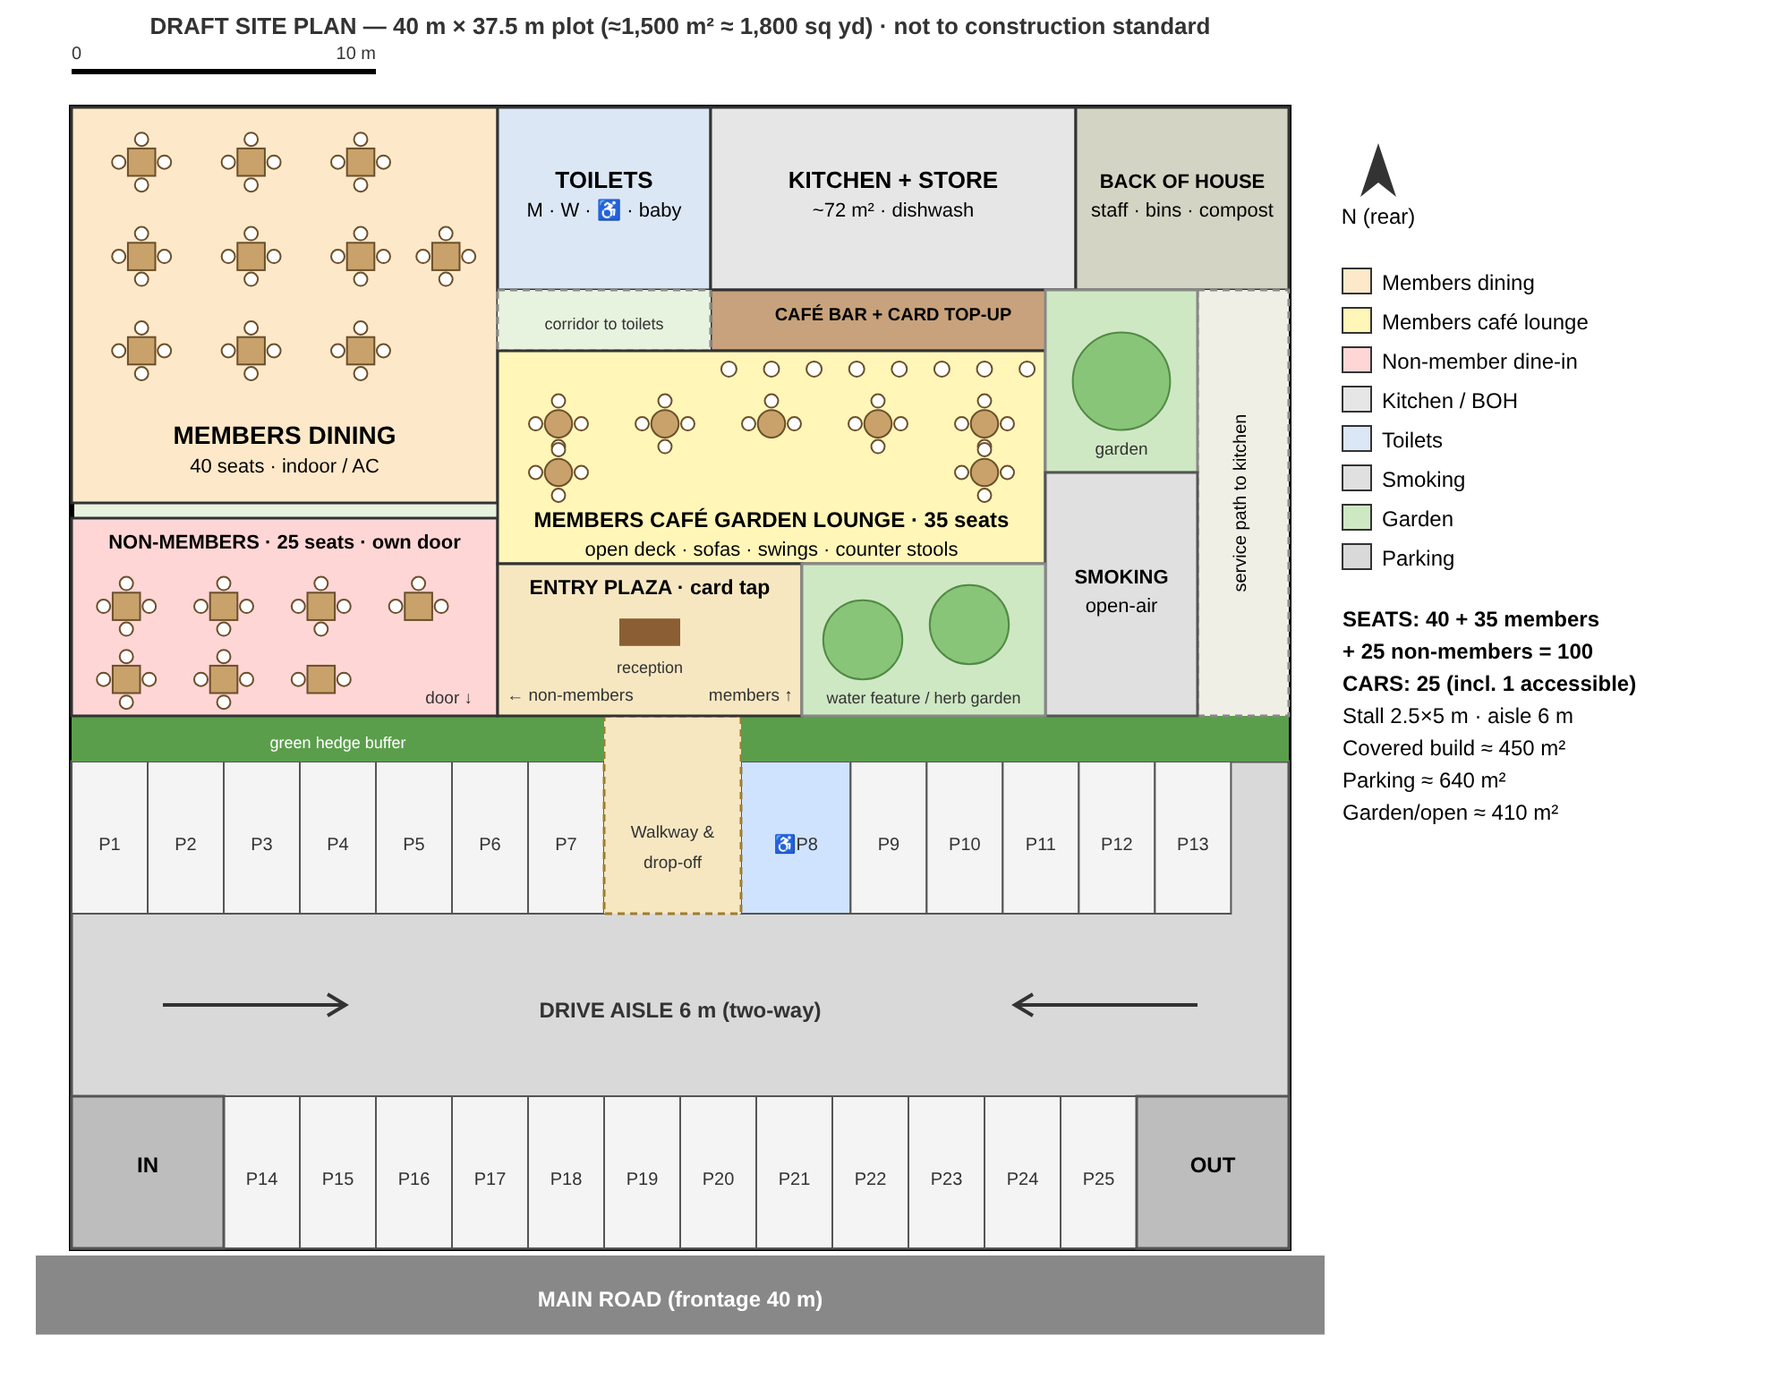
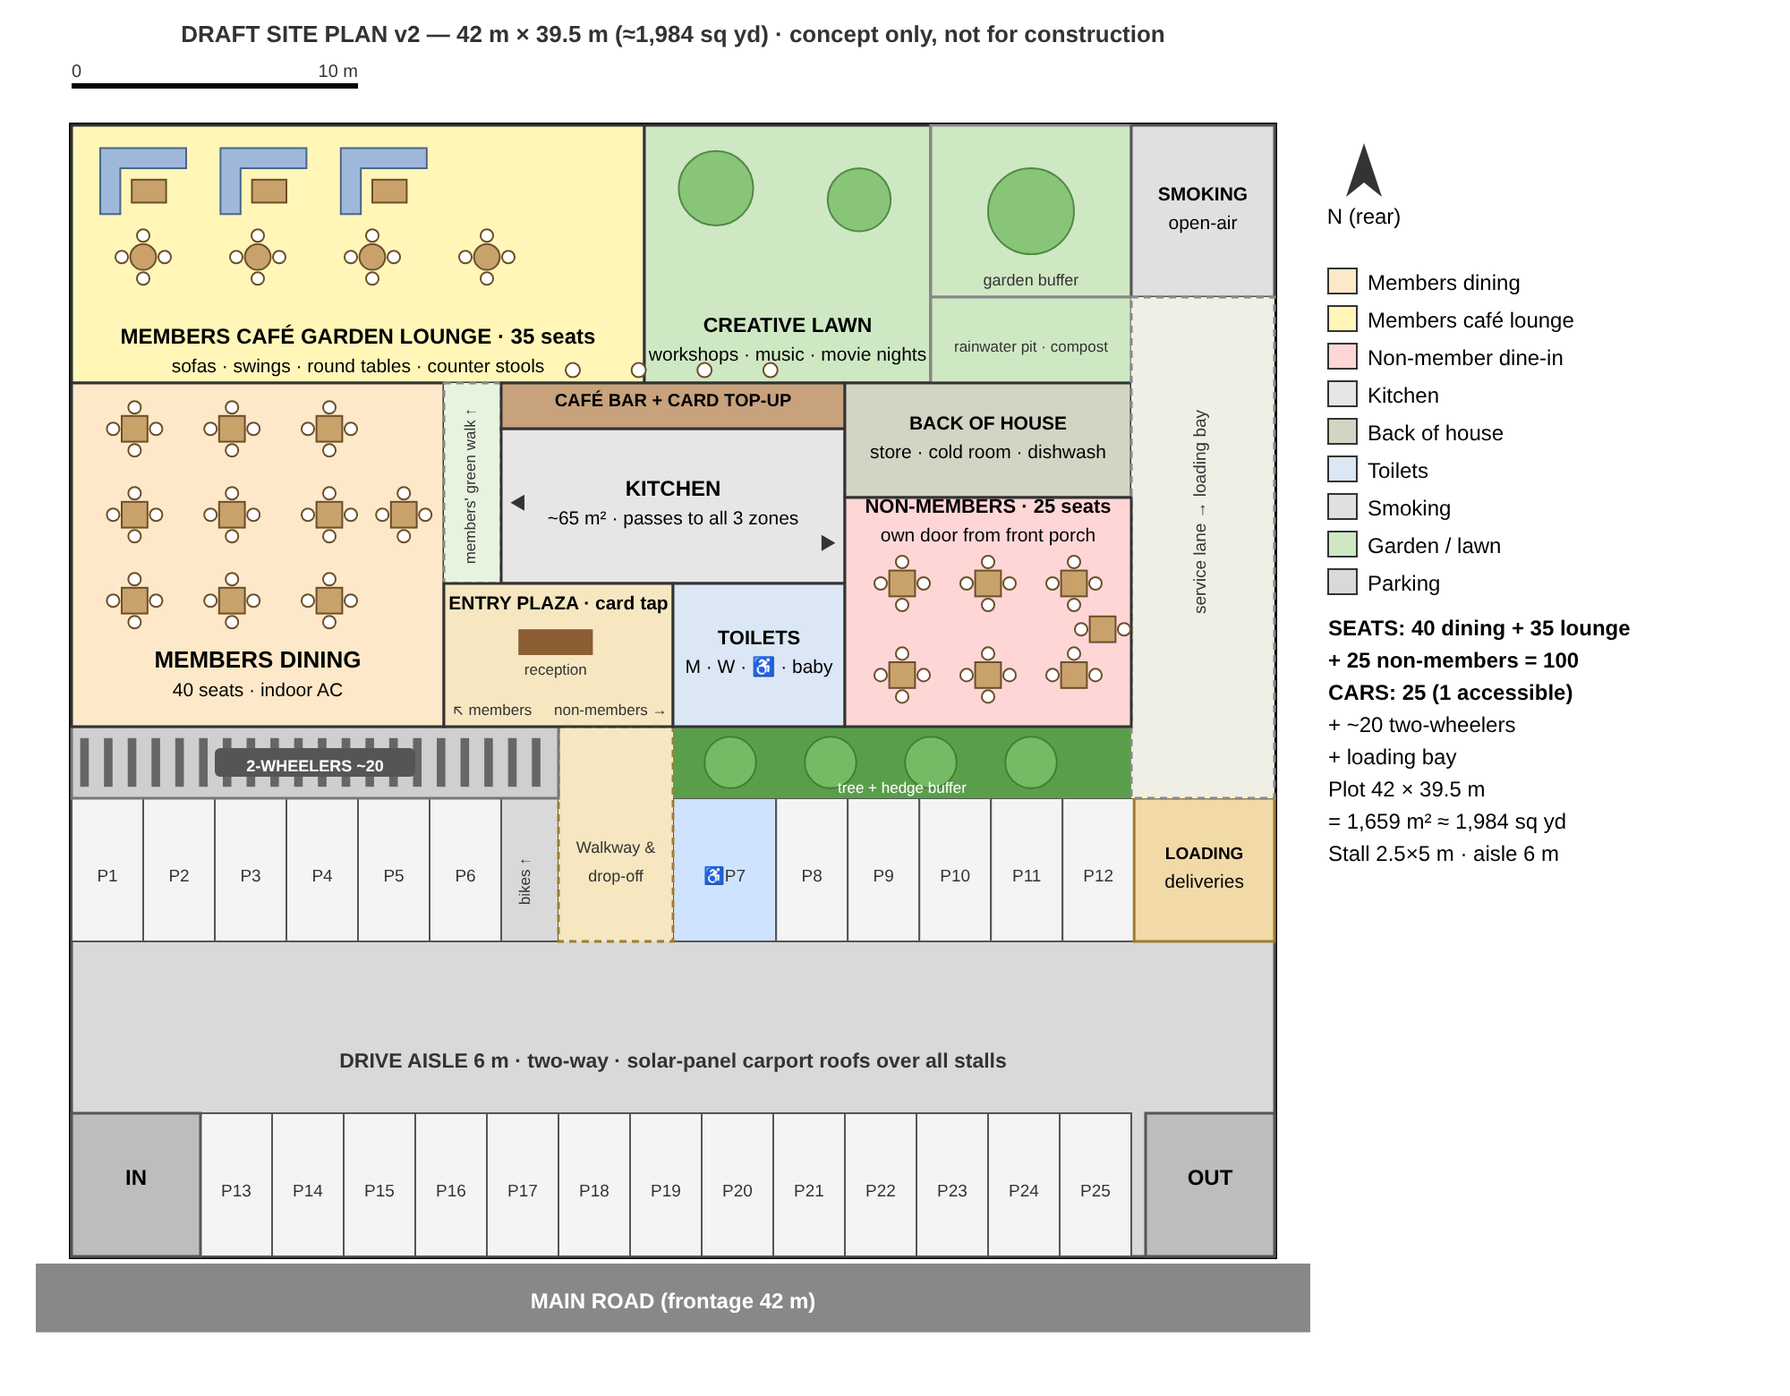
Site plan v2 (2,000 sq yd) and operating cost checklist
Claude-Session: https://claude.ai/code/session_01Suomtn9juoibYYr5fGLiWS

diff --git a/founder/layout/make_plan.py b/founder/layout/make_plan.py
@@ -1,5 +1,7 @@
-S=17; OX=40; OY=60  # px per metre, origin
-W,H=40,37.5
+"""Draft site plan v2 for Green Card Cafe. Run: python3 make_plan.py -> site-plan.svg"""
+import os
+S=16; OX=40; OY=70
+W,H=42,39.5
 out=[]
 def r(x,y,w,h,fill,label="",sub="",stroke="#333",sw=1.5,dash=None,fs=13,ly=None):
     d=f' stroke-dasharray="{dash}"' if dash else ''
@@ -7,99 +9,103 @@ def r(x,y,w,h,fill,label="",sub="",stroke="#333",sw=1.5,dash=None,fs=13,ly=None)
     if label:
         cx=OX+(x+w/2)*S; cy=OY+((y+h/2) if ly is None else ly)*S
         out.append(f'<text x="{cx}" y="{cy-(6 if sub else 0)}" font-size="{fs}" font-weight="700" text-anchor="middle">{label}</text>')
-        if sub: out.append(f'<text x="{cx}" y="{cy+10}" font-size="11" text-anchor="middle">{sub}</text>')
-def t(x,y,s,fs=11,a="middle",c="#333",b=False):
-    out.append(f'<text x="{OX+x*S}" y="{OY+y*S}" font-size="{fs}" text-anchor="{a}" fill="{c}"{" font-weight=\"700\"" if b else ""}>{s}</text>')
-def tab(x,y,n=4,round_=False):
-    if round_:
-        out.append(f'<circle cx="{OX+x*S}" cy="{OY+y*S}" r="{0.45*S}" fill="#c9a26b" stroke="#6b4f2a"/>')
-    else:
-        out.append(f'<rect x="{OX+(x-0.45)*S}" y="{OY+(y-0.45)*S}" width="{0.9*S}" height="{0.9*S}" fill="#c9a26b" stroke="#6b4f2a"/>')
+        if sub: out.append(f'<text x="{cx}" y="{cy+10}" font-size="10.5" text-anchor="middle">{sub}</text>')
+def t(x,y,s,fs=10,a="middle",c="#333",b=False,rot=0):
+    tr=f' transform="rotate({rot} {OX+x*S} {OY+y*S})"' if rot else ''
+    out.append(f'<text x="{OX+x*S}" y="{OY+y*S}" font-size="{fs}" text-anchor="{a}" fill="{c}"{" font-weight=\"700\"" if b else ""}{tr}>{s}</text>')
+seats={"dining":0,"lounge":0,"nm":0}
+def tab(x,y,n=4,round_=False,zone=None):
+    if zone: seats[zone]+=n
+    if round_: out.append(f'<circle cx="{OX+x*S}" cy="{OY+y*S}" r="{0.45*S}" fill="#c9a26b" stroke="#6b4f2a"/>')
+    else: out.append(f'<rect x="{OX+(x-0.45)*S}" y="{OY+(y-0.45)*S}" width="{0.9*S}" height="{0.9*S}" fill="#c9a26b" stroke="#6b4f2a"/>')
     for dx,dy in [(-0.75,0),(0.75,0),(0,-0.75),(0,0.75)][:n]:
         out.append(f'<circle cx="{OX+(x+dx)*S}" cy="{OY+(y+dy)*S}" r="{0.22*S}" fill="#fff" stroke="#6b4f2a"/>')
-def tree(x,y,rad=0.9):
-    out.append(f'<circle cx="{OX+x*S}" cy="{OY+y*S}" r="{rad*S}" fill="#7cbf6b" stroke="#3d7a2f" opacity="0.85"/>')
+def sofa(x,y,zone):  # L-sofa set: 5 seats around a coffee table
+    seats[zone]+=5
+    out.append(f'<path d="M {OX+x*S} {OY+y*S} h {3*S} v {0.7*S} h {-2.3*S} v {1.6*S} h {-0.7*S} Z" fill="#9fb8d9" stroke="#4a6688"/>')
+    out.append(f'<rect x="{OX+(x+1.1)*S}" y="{OY+(y+1.1)*S}" width="{1.2*S}" height="{0.8*S}" fill="#c9a26b" stroke="#6b4f2a"/>')
+def stool(x,y,zone): seats[zone]+=1; out.append(f'<circle cx="{OX+x*S}" cy="{OY+y*S}" r="{0.25*S}" fill="#fff" stroke="#6b4f2a"/>')
+def tree(x,y,rad=0.9): out.append(f'<circle cx="{OX+x*S}" cy="{OY+y*S}" r="{rad*S}" fill="#7cbf6b" stroke="#3d7a2f" opacity="0.85"/>')
 
-# plot + green base
 r(0,0,W,H,"#e8f3df",stroke="#000",sw=3)
-# road
-out.append(f'<rect x="{OX-20}" y="{OY+H*S+4}" width="{W*S+40}" height="{2.6*S}" fill="#888"/>')
-t(W/2,H+1.9,"MAIN ROAD (frontage 40 m)",12,c="#fff",b=True)
+out.append(f'<rect x="{OX-20}" y="{OY+H*S+4}" width="{W*S+40}" height="{2.4*S}" fill="#888"/>')
+t(W/2,H+1.8,"MAIN ROAD (frontage 42 m)",12,c="#fff",b=True)
 
-# ---- parking y 21.5-37.5
-r(0,21.5,W,16,"#d9d9d9",stroke="#555")
-t(W/2,29.9,"DRIVE AISLE 6 m  (two-way)",12,b=True)
-out.append(f'<path d="M {OX+3*S} {OY+29.5*S} h {6*S} m -10 -6 l 10 6 l -10 6" stroke="#333" fill="none" stroke-width="2"/>')
-out.append(f'<path d="M {OX+37*S} {OY+29.5*S} h {-6*S} m 10 -6 l -10 6 l 10 6" stroke="#333" fill="none" stroke-width="2"/>')
-n=0
+# ---------- PARKING  y 23.5-39.5  (solar carport roof over stalls)
+r(0,23.5,W,16,"#d9d9d9",stroke="#555")
+t(W/2,32.9,"DRIVE AISLE 6 m · two-way · solar-panel carport roofs over all stalls",11.5,b=True)
+n=[0]
 def stall(x,y,w=2.5,acc=False):
-    global n; n+=1
-    r(x,y,w,5,"#f4f4f4" if not acc else "#cfe3ff",stroke="#555",sw=1)
-    t(x+w/2,y+2.9,("♿" if acc else "")+f"P{n}",10)
-for i in range(7): stall(i*2.5,21.5)
-stall(22,21.5,3.6,True)
-for i in range(5): stall(25.6+i*2.5,21.5)
-for i in range(12): stall(5+i*2.5,32.5)
-r(0,32.5,5,5,"#bdbdbd","IN",stroke="#555",fs=12)
-r(35,32.5,5,5,"#bdbdbd","OUT",stroke="#555",fs=12)
-# pedestrian path / drop-off
-r(17.5,20,4.5,6.5,"#f6e7c1","",stroke="#a07c2c",dash="4 3")
-t(19.75,24,"Walkway &amp;",9.5); t(19.75,25,"drop-off",9.5)
-# hedge buffer
-r(0,20,17.5,1.5,"#5a9e4b",stroke="none"); r(22,20,18,1.5,"#5a9e4b",stroke="none")
-t(8.75,21.05,"green hedge buffer",9,c="#fff")
+    n[0]+=1; r(x,y,w,5,"#cfe3ff" if acc else "#f4f4f4",stroke="#555",sw=1); t(x+w/2,y+2.9,("♿" if acc else "")+f"P{n[0]}",9.5)
+for i in range(6): stall(i*2.5,23.5)
+stall(21,23.5,3.6,True)
+for i in range(5): stall(24.6+i*2.5,23.5)
+for i in range(13): stall(4.5+i*2.5,34.5)
+r(0,34.5,4.5,5,"#bdbdbd","IN",stroke="#555",fs=12)
+r(37.5,34.5,4.5,5,"#bdbdbd","OUT",stroke="#555",fs=12)
+r(37.1,23.5,4.9,5,"#f1d9a8","LOADING",stroke="#a07c2c",fs=9.5,sub="deliveries")
+r(15,23.5,2,5,"#d9d9d9",stroke="#555",sw=1); t(16,26.4,"bikes ↑",8.5,rot=-90)
+r(17,21,4,7.5,"#f6e7c1",stroke="#a07c2c",dash="4 3"); t(19,25.4,"Walkway &amp;",9); t(19,26.4,"drop-off",9)
+# 2-wheeler bay + hedge band y 21-23.5
+r(0,21,17,2.5,"#cfcfcf","",stroke="#777")
+for i in range(20): out.append(f'<rect x="{OX+(0.3+i*0.83)*S}" y="{OY+21.4*S}" width="{0.3*S}" height="{1.7*S}" fill="#666"/>')
+out.append(f'<rect x="{OX+5*S}" y="{OY+21.75*S}" width="{7*S}" height="{1*S}" fill="#555" rx="3"/>'); t(8.5,22.55,"2-WHEELERS ~20",9,c="#fff",b=True)
+r(21,21,16.1,2.5,"#5a9e4b",stroke="none")
+for x in [23,26.5,30,33.5]: tree(x,22.25,0.9)
+t(29,23.3,"tree + hedge buffer",8.5,c="#fff")
 
-# ---- cafe zone y 0-20
-r(0,0,14,13,"#fde9c9","MEMBERS DINING","40 seats · indoor / AC",fs=14,ly=11.4)
-for cx in [2.3,5.9,9.5]:
-    for cy in [1.8,4.9,8.0]:
-        tab(cx,cy)
-tab(12.3,4.9);  # 10 tables x4 = 40
-r(0,13.5,14,6.5,"#ffd6d6","NON-MEMBERS · 25 seats · own door",fs=11,ly=14.5)
-for cx in [1.8,5.0,8.2]:
-    tab(cx,16.4)
-for cx in [1.8,5.0]: tab(cx,18.8)
-tab(11.4,16.4,3); tab(8.2,18.8,2)
-t(12.4,19.6,"door ↓",9.5)
-r(14,0,7,6,"#dbe7f5","TOILETS","M · W · ♿ · baby",fs=13)
-r(21,0,12,6,"#e6e6e6","KITCHEN + STORE","~72 m² · dishwash",fs=13)
-r(21,6,12,2,"#c7a27c","CAFÉ BAR + CARD TOP-UP",fs=10)
-r(33,0,7,6,"#d4d4c4","BACK OF HOUSE","staff · bins · compost",fs=11)
-r(37,6,3,14,"#efefe6",stroke="#888",dash="4 3")
-out.append(f'<text x="{OX+38.6*S}" y="{OY+13*S}" font-size="10" text-anchor="middle" transform="rotate(-90 {OX+38.6*S} {OY+13*S})">service path to kitchen</text>')
-r(14,6,7,2,"#e8f3df",stroke="#888",dash="4 3"); t(17.5,7.3,"corridor to toilets",9)
-r(14,8,18,7,"#fff6b8","MEMBERS CAFÉ GARDEN LOUNGE · 35 seats","open deck · sofas · swings · counter stools",fs=12,ly=14.15)
-for cx in [16,19.5,26.5,30]: tab(cx,10.4,4,True)
-for cx in [23]: tab(cx,10.4,3,True)
-for cx in [16,30]: tab(cx,12.0,4,True)
- # 6x4+3=27
-# counter bar stools along lounge top
-for i in range(8): out.append(f'<circle cx="{OX+(21.6+i*1.4)*S}" cy="{OY+8.6*S}" r="{0.25*S}" fill="#fff" stroke="#6b4f2a"/>')
-r(32,6,5,6,"#cfe8c4","","",stroke="#888"); tree(34.5,9,1.6); t(34.5,11.4,"garden",9.5)
-r(32,12,5,8,"#e0e0e0","SMOKING","open-air",stroke="#555",fs=11)
-r(14,15,10,5,"#f6e7c1","ENTRY PLAZA · card tap",fs=11.5,ly=16)
-out.append(f'<rect x="{OX+18*S}" y="{OY+16.8*S}" width="{2*S}" height="{0.9*S}" fill="#8b5e34"/>')
-t(19,18.6,"reception",9,c="#333")
-t(14.3,19.5,"← non-members",9.5,a="start"); t(23.7,19.5,"members ↑",9.5,a="end")
-r(24,15,8,5,"#cfe8c4",stroke="#888"); 
-for (x,y) in [(26,17.5),(29.5,17)]: tree(x,y,1.3)
-t(28,19.6,"water feature / herb garden",9)
-for (x,y) in [(1,1),(13,12.4)]: pass
+# ---------- CAFE ZONE y 0-21
+# members garden lounge (back, quietest)
+r(0,0,20,9,"#fff6b8","MEMBERS CAFÉ GARDEN LOUNGE · 35 seats","sofas · swings · round tables · counter stools",fs=12,ly=8.0)
+sofa(1,0.8,"lounge"); sofa(5.2,0.8,"lounge"); sofa(9.4,0.8,"lounge")
+for cx in [2.5,6.5,10.5,14.5]: tab(cx,4.6,4,True,"lounge")
+# creative lawn
+r(20,0,10,9,"#cfe8c4","CREATIVE LAWN","workshops · music · movie nights",fs=11.5,ly=7.6)
+tree(22.5,2.2,1.3); tree(27.5,2.6,1.1)
+# garden buffer + smoking
+r(30,0,7,6,"#cfe8c4",stroke="#888"); tree(33.5,3,1.5); t(33.5,5.6,"garden buffer",9)
+r(37,0,5,6,"#e0e0e0","SMOKING","open-air",stroke="#555",fs=10.5)
+r(30,6,7,3,"#cfe8c4",stroke="#888"); t(33.5,7.9,"rainwater pit · compost",8.5)
+# members dining
+r(0,9,13,12,"#fde9c9","MEMBERS DINING","40 seats · indoor AC",fs=13,ly=19.3)
+for cx in [2.2,5.6,9.0]:
+    for cy in [10.6,13.6,16.6]: tab(cx,cy,4,False,"dining")
+tab(11.6,13.6,4,False,"dining")
+# green walk (members route from plaza to lounge)
+r(13,9,2,7,"#e8f3df",stroke="#888",dash="4 3"); t(14.1,12.6,"members' green walk ↑",8.5,rot=-90)
+# kitchen block with café bar on north face
+r(15,9,12,1.6,"#c7a27c","CAFÉ BAR + CARD TOP-UP",fs=10)
+for i in range(4): stool(17.5+i*2.3,8.55,"lounge")
+r(15,10.6,12,5.4,"#e6e6e6","KITCHEN","~65 m² · passes to all 3 zones",fs=12)
+t(15.3,13.4,"◀",10,a="start"); t(26.7,14.8,"▶",10,a="end")
+r(27,9,10,4,"#d4d4c4","BACK OF HOUSE","store · cold room · dishwash",fs=10.5)
+r(37,6,5,17.5,"#efefe6",stroke="#888",dash="4 3"); t(39.6,13.5,"service lane → loading bay",9.5,rot=-90)
+# entry plaza + toilets
+r(13,16,8,5,"#f6e7c1","ENTRY PLAZA · card tap","",fs=10.5,ly=16.9)
+out.append(f'<rect x="{OX+15.6*S}" y="{OY+17.6*S}" width="{2.6*S}" height="{0.9*S}" fill="#8b5e34"/>'); t(16.9,19.2,"reception",8.5)
+t(13.3,20.6,"↖ members",8.5,a="start"); t(20.8,20.6,"non-members →",8.5,a="end")
+r(21,16,6,5,"#dbe7f5","TOILETS","M · W · ♿ · baby",fs=11)
+# non-members
+r(27,13,10,8,"#ffd6d6","NON-MEMBERS · 25 seats","own door from front porch",fs=11,ly=13.9)
+for cx in [29,32,35]: tab(cx,16.0,4,False,"nm")
+for cx in [29,32]: tab(cx,19.2,4,False,"nm")
+tab(35,19.2,3,False,"nm")
+tab(36.0,17.6,2,False,"nm")
 
-# north arrow + scale
-out.append(f'<g transform="translate({OX+W*S+40},{OY+20})"><path d="M0 30 L10 0 L20 30 L10 22 Z" fill="#333"/><text x="10" y="45" font-size="12" text-anchor="middle">N (rear)</text></g>')
-out.append(f'<line x1="{OX}" y1="{OY-20}" x2="{OX+10*S}" y2="{OY-20}" stroke="#000" stroke-width="3"/>')
-t(0,-1.6,"0",10,a="start"); t(10,-1.6,"10 m",10,a="end")
-t(W/2,-2.4,"DRAFT SITE PLAN — 40 m × 37.5 m plot (≈1,500 m² ≈ 1,800 sq yd) · not to construction standard",13,b=True)
-# legend
-L=[("Members dining","#fde9c9"),("Members café lounge","#fff6b8"),("Non-member dine-in","#ffd6d6"),("Kitchen / BOH","#e6e6e6"),("Toilets","#dbe7f5"),("Smoking","#e0e0e0"),("Garden","#cfe8c4"),("Parking","#d9d9d9")]
-lx=OX+W*S+30; ly=OY+90
+# legend & stats
+lx=OX+W*S+30; ly=OY+80
+out.append(f'<g transform="translate({lx+10},{OY+10})"><path d="M0 30 L10 0 L20 30 L10 22 Z" fill="#333"/><text x="10" y="45" font-size="12" text-anchor="middle">N (rear)</text></g>')
+L=[("Members dining","#fde9c9"),("Members café lounge","#fff6b8"),("Non-member dine-in","#ffd6d6"),("Kitchen","#e6e6e6"),("Back of house","#d4d4c4"),("Toilets","#dbe7f5"),("Smoking","#e0e0e0"),("Garden / lawn","#cfe8c4"),("Parking","#d9d9d9")]
 for i,(k,c) in enumerate(L):
-    out.append(f'<rect x="{lx}" y="{ly+i*22}" width="16" height="14" fill="{c}" stroke="#333"/><text x="{lx+22}" y="{ly+i*22+12}" font-size="12">{k}</text>')
-summ=["SEATS: 40 + 35 members","          + 25 non-members = 100","CARS: 25 (incl. 1 accessible)","Stall 2.5×5 m · aisle 6 m","Covered build ≈ 450 m²","Parking ≈ 640 m²","Garden/open ≈ 410 m²"]
+    out.append(f'<rect x="{lx}" y="{ly+i*21}" width="16" height="14" fill="{c}" stroke="#333"/><text x="{lx+22}" y="{ly+i*21+12}" font-size="12">{k}</text>')
+tot=seats["dining"]+seats["lounge"]+seats["nm"]
+summ=[f"SEATS: {seats['dining']} dining + {seats['lounge']} lounge",f"  + {seats['nm']} non-members = {tot}",f"CARS: {n[0]} (1 accessible)","+ ~20 two-wheelers","+ loading bay","Plot 42 × 39.5 m","= 1,659 m² ≈ 1,984 sq yd","Stall 2.5×5 m · aisle 6 m"]
 for i,s in enumerate(summ):
-    out.append(f'<text x="{lx}" y="{ly+200+i*18}" font-size="12"{" font-weight=\"700\"" if i<3 else ""}>{s}</text>')
-CW=OX+W*S+250; CH=OY+H*S+70
+    out.append(f'<text x="{lx}" y="{ly+205+i*18}" font-size="12"{" font-weight=\"700\"" if i<3 else ""}>{s}</text>')
+out.append(f'<line x1="{OX}" y1="{OY-22}" x2="{OX+10*S}" y2="{OY-22}" stroke="#000" stroke-width="3"/>')
+t(0,-1.7,"0",10,a="start"); t(10,-1.7,"10 m",10,a="end")
+t(W/2,-2.9,"DRAFT SITE PLAN v2 — 42 m × 39.5 m (≈1,984 sq yd) · concept only, not for construction",13,b=True)
+CW=OX+W*S+260; CH=OY+H*S+60
 svg=f'<svg xmlns="http://www.w3.org/2000/svg" width="{CW}" height="{CH}" viewBox="0 0 {CW} {CH}" font-family="Arial, Helvetica, sans-serif"><rect width="100%" height="100%" fill="#fff"/>'+"".join(out)+'</svg>'
-open("/home/user/rrr/founder/layout/site-plan.svg","w").write(svg)
-print("stalls",n)
+open(os.path.join(os.path.dirname(os.path.abspath(__file__)),"site-plan.svg"),"w").write(svg)
+print(seats,tot,"cars",n[0])

diff --git a/founder/operating-costs.md b/founder/operating-costs.md
@@ -1,0 +1,115 @@
+# Operating costs to know before launch: Green Card Café, Thaltej
+
+A checklist of every cost to price **before** opening. Get a written quote for
+each line, enter it in `founder/operating-costs.csv`, and `/founder-cfo` turns it
+into margin, break-even and the real joining fee and minimum recharge.
+
+Percentages marked *rule of thumb* are common restaurant-industry planning
+ranges, not quotes for Ahmedabad. Replace them with your own quotes.
+
+**Two Gujarat facts that change the maths:**
+- **Gujarat is a dry state:** no alcohol sales. Margin has to come from food,
+  coffee and drinks, events and the card float, not from a bar.
+- **Restaurant GST is generally 5% with no input tax credit,** so GST paid on
+  rent, equipment and supplies is a real cost, not recoverable. Confirm with
+  your CA.
+
+---
+
+## A. One-time: before opening day
+| # | Item | What to find out |
+|---|---|---|
+| A1 | Land | Purchase price, or lease deposit + lock-in + yearly escalation % |
+| A2 | Construction & civil | Building (~450 m² covered), kitchen services, toilets, drainage |
+| A3 | Parking works | Paving for 25 cars, solar carport structure, gates, lighting |
+| A4 | Landscaping | Lawn, trees, hedge, water feature, irrigation, rainwater pit |
+| A5 | Interiors & furniture | 100 seats, sofas, swings, lounge, bar counter, signage |
+| A6 | Kitchen equipment | Ranges, ovens, coffee machine + grinder, fridges, cold room, exhaust hood, dishwasher, RO |
+| A7 | Power backup & HVAC | Transformer/meter load sanction, DG set or inverter, AC units, solar install |
+| A8 | Tech setup | POS, **closed-loop card system** (cards, readers, top-up kiosk, member app/CRM), CCTV, Wi-Fi, music system |
+| A9 | Licences & approvals | FSSAI licence; GST registration; Gujarat Shops & Establishments; AMC health/trade licence; fire NOC; building use/plan approval (AUDA/AMC); signage permission; police eating-house licence (check if needed); music licences (PPL/IPRS); COTPA-compliant smoking area |
+| A10 | Professional fees | Architect, structural/MEP engineer, CA, lawyer (member terms and card T&Cs) |
+| A11 | Pre-opening payroll | 3–4 weeks of hiring, training and trial runs before opening |
+| A12 | Opening stock | First food, beverage, packaging and cleaning stock |
+| A13 | Launch marketing | Founding-member pre-sale, launch event, photos/video, influencer visits |
+| A14 | Deposits | Electricity, gas, rent and vendor deposits |
+| A15 | **Working-capital reserve** | 3–6 months of the monthly costs below, kept in the bank |
+
+## B. Monthly running costs
+### 1. Food & beverage cost (variable)
+- Ingredients, coffee beans, milk, bakery inputs. *Rule of thumb: 28–35% of food
+  and drink sales.*
+- **Eco packaging** (compostable cups, boxes, straws) costs more than plastic.
+  Get quotes.
+- **Wastage and staff meals.** Plan for 2–4% of sales.
+
+### 2. People (usually the biggest fixed cost)
+List each role with a headcount per shift (opening 7am–11pm needs about two shifts):
+- Café manager, assistant manager / shift lead
+- Head chef, line cooks, kitchen helpers, dishwashers
+- Baristas, servers (members) and servers (non-member zone)
+- Card desk / reception / membership host
+- Housekeeping, gardener, **security + parking marshal** (25 cars)
+- Event / community coordinator (the "creativity, community" promise)
+- Add-ons: **PF, ESI, Gujarat professional tax**, bonus, overtime, uniforms,
+  staff food, staff accommodation if any, hiring and attrition costs
+
+*Rule of thumb: total staff cost 20–30% of sales.*
+
+### 3. Land & premises
+- Rent / lease (with yearly escalation), or loan EMI if you bought
+- **AMC property tax**
+- Building and garden maintenance reserve
+
+### 4. Utilities
+- **Electricity** (commercial tariff; AC and kitchen load, less solar savings)
+- **Gas** (piped gas or commercial LPG cylinders)
+- **Water** (municipal, borewell or tankers in summer; the garden adds a lot)
+- Internet (business line plus a backup)
+
+### 5. Repairs & maintenance (AMCs)
+- AC, kitchen equipment, coffee machine, cold room, RO, DG set, solar panels
+- Fire extinguisher refills, CCTV, POS/card readers
+- **Pest control (monthly; needed for FSSAI hygiene)**, grease-trap cleaning,
+  deep cleaning
+- Furniture and swing upkeep, outdoor cushions (sun and monsoon damage)
+
+### 6. Technology & payments
+- POS and card-system subscription, member app / CRM, accounting software
+- **Payment charges:** UPI is usually free; cards about 1.5–2% (check with your
+  bank)
+- **Physical card cost** per new member (recover it through the card fee)
+- Music streaming licence for business use, plus PPL/IPRS licences
+
+### 7. Marketing & community
+- Social media management, content shoots, ads
+- Member events: artists, workshop materials, movie-night licences
+- Founding-member perks (free drink each month, guest passes): **cost them at
+  food cost**
+
+### 8. Admin & compliance
+- CA / GST filing, payroll, legal retainer
+- Licence renewals (FSSAI, trade licence, fire NOC), insurance premiums
+  (fire/property, public liability, equipment, group health)
+- Bank charges, loan interest
+
+### 9. Waste & sustainability
+- Wet-waste composting, dry-waste recycling vendor, used-oil collection
+- Garden: plants, manure, seasonal replanting
+
+### 10. Contingency
+- 5–10% of monthly costs for things that break or get missed
+
+## C. Money that is not a cost but must be planned
+- **Card float liability:** all unspent balance on members' cards is owed in
+  food. Keep enough cash to serve it, and don't spend it on the build.
+- **GST on sales** collected and paid monthly. It is not your income.
+- **Seasonality:** Ahmedabad summers (open-air seating less usable) and the
+  monsoon. Plan lower months.
+
+## D. The five numbers to bring to `/founder-cfo`
+1. Land: monthly rent or EMI
+2. Total one-time setup (A1–A14)
+3. Monthly staff cost (from the role list)
+4. Monthly fixed costs (B3–B10)
+5. Average spend per visit and visits per member per month (from the panel or a pre-sale)
